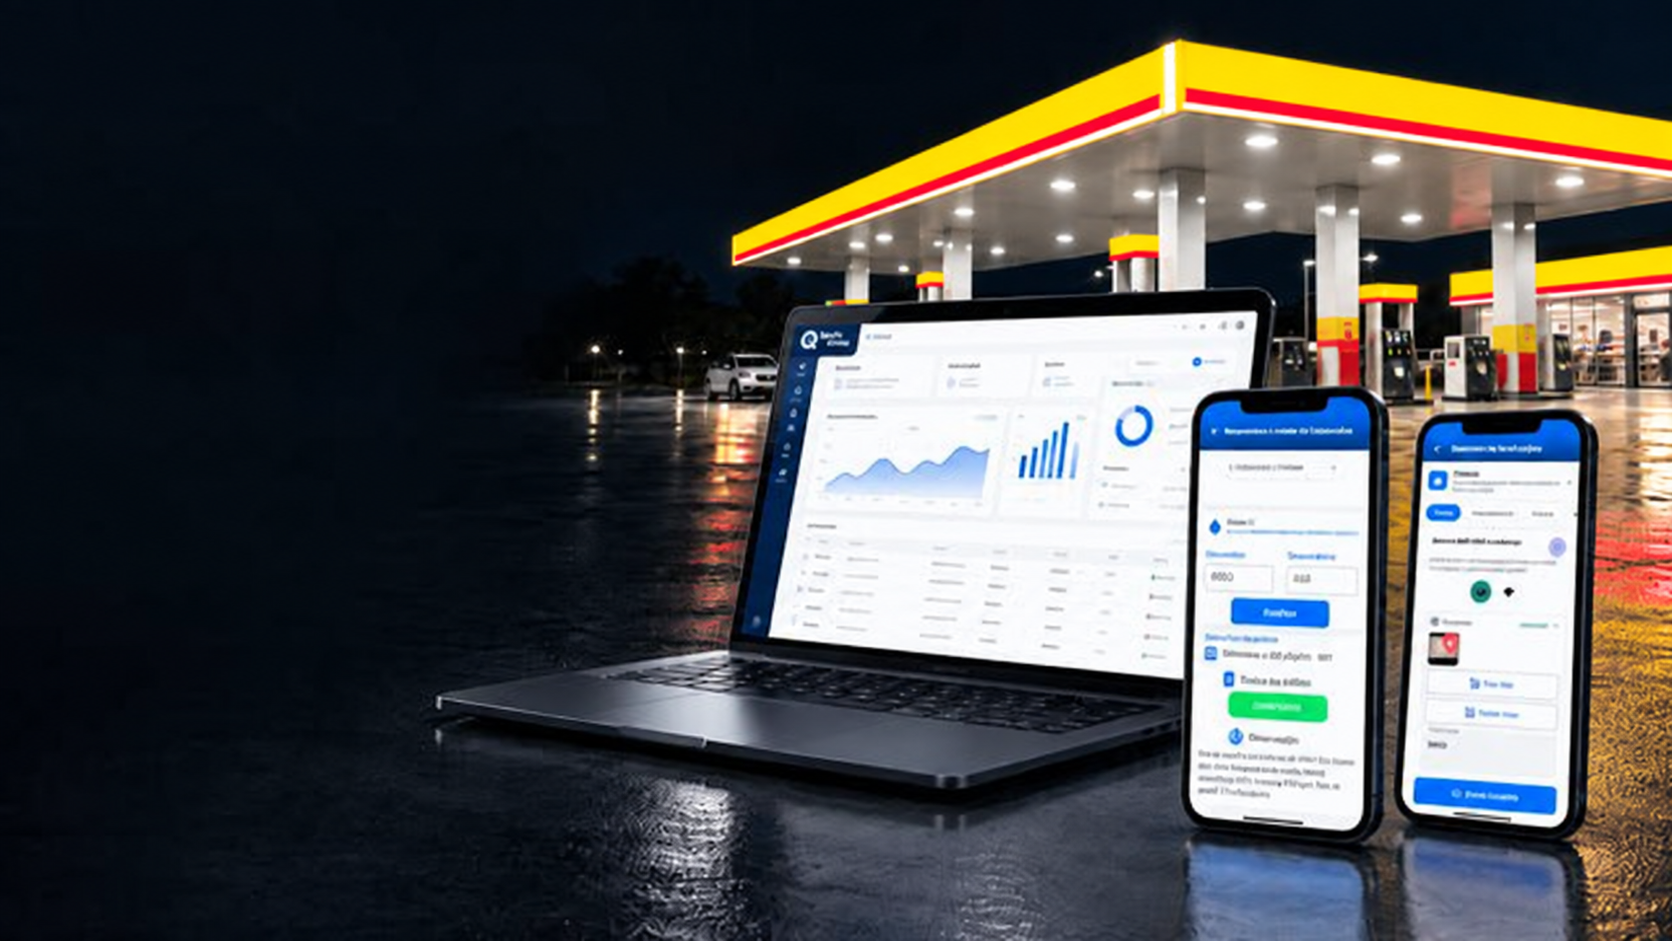
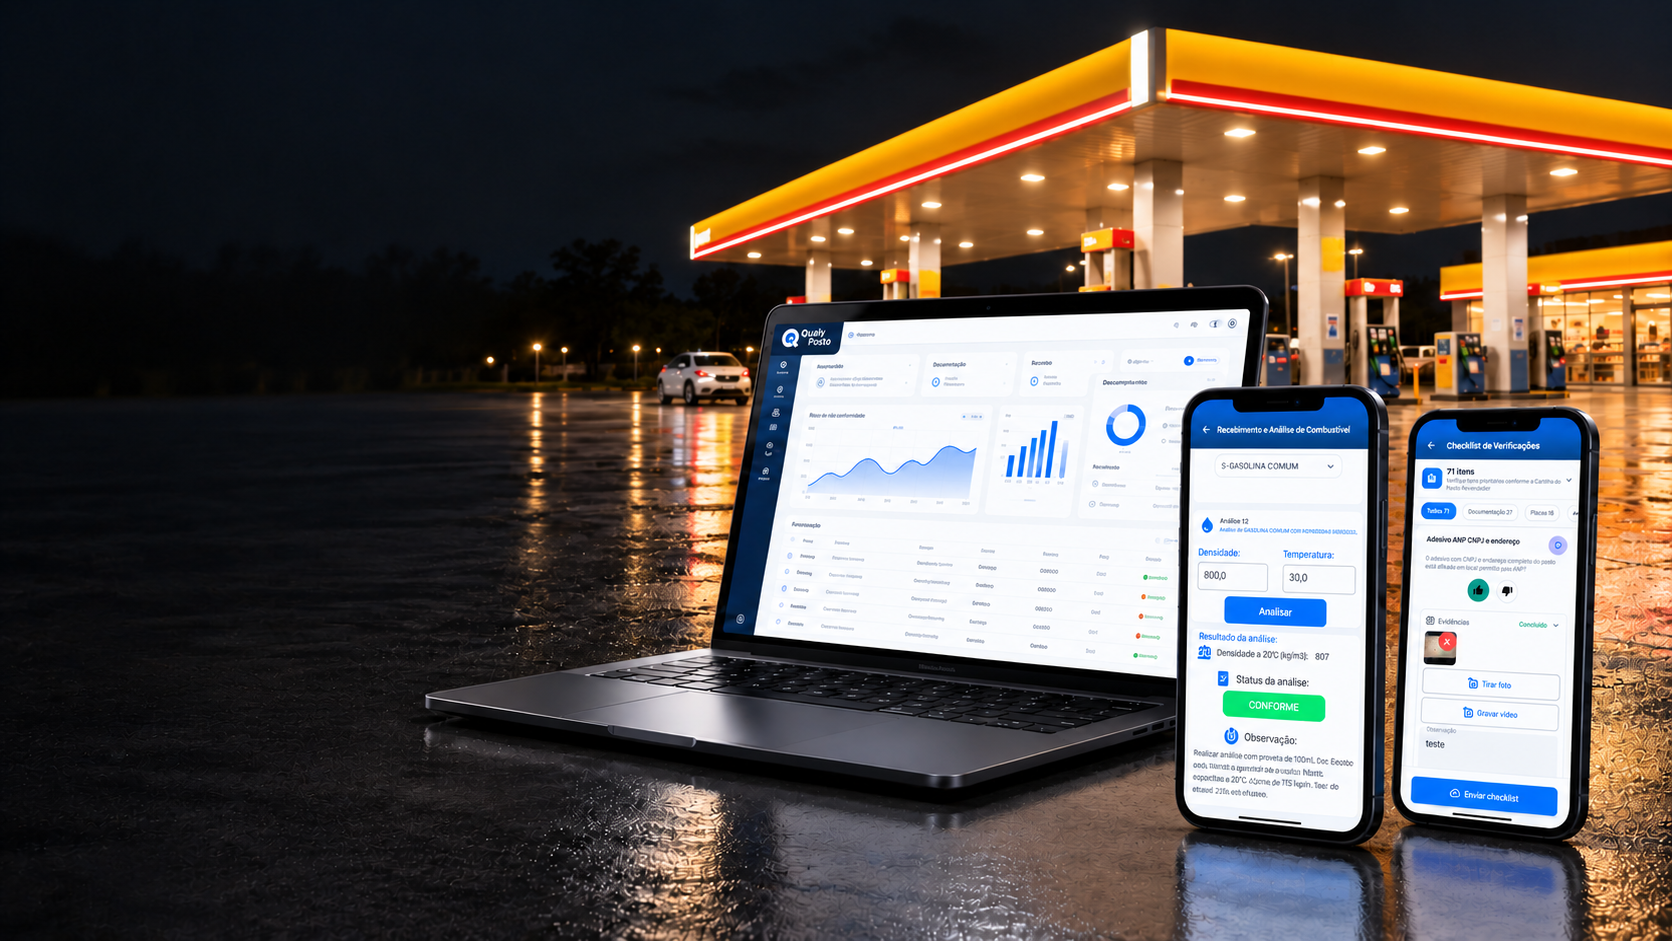
feat: substituir imagem ecosystem pela nova versao

diff --git a/qualyposto/src/app/app.component.ts b/qualyposto/src/app/app.component.ts
@@ -147,7 +147,7 @@ interface DashboardRecord {
           <div class="hero-art">
             <img
               class="hero-background"
-              src="assets/ecosystem.png?v=f2125b75"
+              src="assets/ecosystem.png?v=439253c9"
               alt=""
               width="1872"
               height="941"
@@ -1091,7 +1091,7 @@ interface DashboardRecord {
 
           <div class="final-art">
             <img
-              src="assets/ecosystem.png?v=f2125b75"
+              src="assets/ecosystem.png?v=439253c9"
               alt="Ecossistema QualyPosto"
               width="1672"
               height="941"
